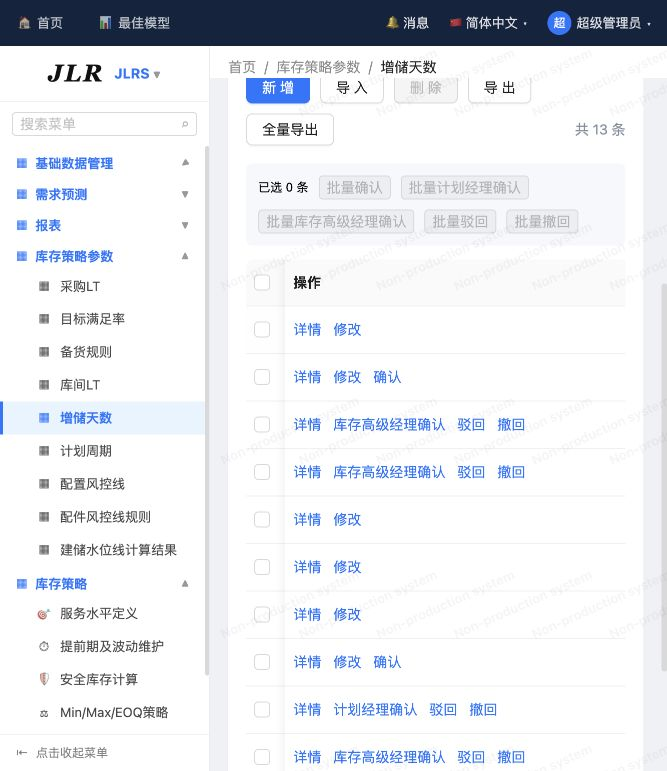
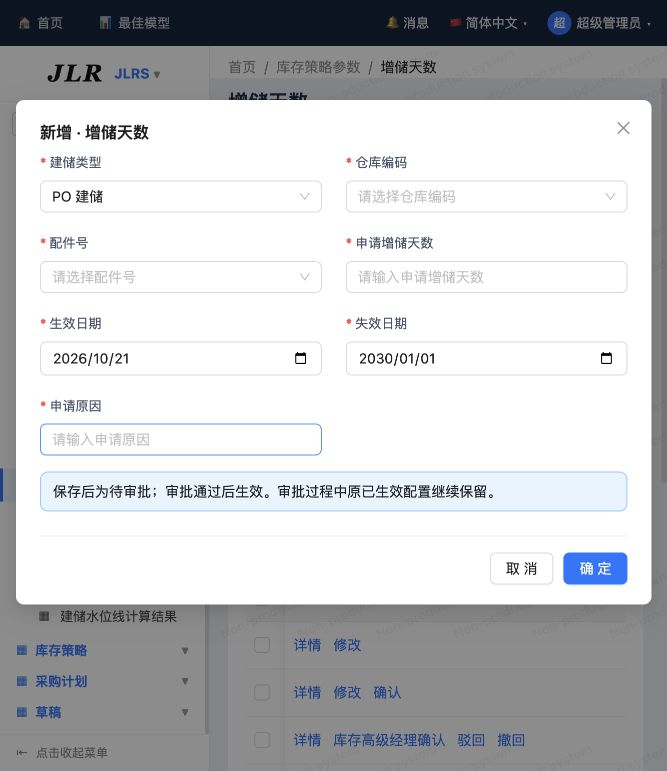
feat: add PO and STO storage types to inventory parameters

diff --git a/前端设计稿/inventory-strategy.js b/前端设计稿/inventory-strategy.js
@@ -22,8 +22,11 @@ const schemas={
  cycle:{title:'计划周期',cols:[sel('type','类型',['配件计划周期','ABC分类计划周期']),...partCols,abc,n('cycle','计划周期'),...meta],edit:['type','part','abc','cycle'],filters:['type','part','partName','abc'],unique:['type','part','abc'],note:'配件类型必填配件；ABC类型必填ABC分类；计划周期为正整数。'},
  risk:{title:'配置风控线',cols:[...partCols,...whCols,...risk,...meta],edit:['part','wh',...risk.map(x=>x.key)],filters:['part','wh','minCoef','maxCoef','minDays','maxDays'],unique:['part','wh'],note:'四项风控参数作为一组配置；配件级优先，其次分类规则，再取全局参数。'},
  riskRule:{title:'配件风控线规则',cols:[...whCols,abc,sel('xyz','XYZ分类',['X','Y','Z']),sel('volume','体积分类',['大','中','小']),sel('amount','金额分类',['高','中','低']),...risk,...meta],edit:['wh','abc','xyz','volume','amount',...risk.map(x=>x.key)],filters:['wh','abc','xyz','volume','amount','minCoef','maxCoef','minDays','maxDays'],unique:['wh','abc','xyz','volume','amount'],note:'按仓库及分类组合维护；分类阈值与跨分类冲突处理规则待确认。'},
- result:{title:'建储水位线计算结果',cols:resultLabels.map((label,i)=>resultKeys[i]==='buildType'?sel('buildType',label,['采购建储','STO调拨建储']):resultKeys[i]==='part'?part:resultKeys[i]==='wh'?{...wh,label}:resultKeys[i]==='shipWh'?sel('shipWh',label,wh.options):resultKeys[i]==='abc'?abc:F(resultKeys[i],label)),edit:['adjustTarget','adjustReorder','adjustReason'],filters:['buildType','part','partName','wh','shipWh','abc','planner'],unique:['buildType','part','wh','shipWh'],note:'固定演示结果，不代表已实现生产计算引擎。先展示水位线及风控、兜底、调整结果，再展示周月预测及其他参数；不适用字段留空。'}
+ result:{title:'建储水位线计算结果',cols:resultLabels.map((label,i)=>resultKeys[i]==='buildType'?sel('buildType',label,['PO 建储','STO 建储']):resultKeys[i]==='part'?part:resultKeys[i]==='wh'?{...wh,label}:resultKeys[i]==='shipWh'?sel('shipWh',label,wh.options):resultKeys[i]==='abc'?abc:F(resultKeys[i],label)),edit:['adjustTarget','adjustReorder','adjustReason'],filters:['buildType','part','partName','wh','shipWh','abc','planner'],unique:['buildType','part','wh','shipWh'],note:'固定演示结果，不代表已实现生产计算引擎。先展示水位线及风控、兜底、调整结果，再展示周月预测及其他参数；不适用字段留空。'}
 };
+const buildTypes=['PO 建储','STO 建储'];
+const buildTypePages=['service','increase','risk','riskRule'];
+for(const k of buildTypePages){schemas[k].cols.unshift(sel('buildType','建储类型',buildTypes));schemas[k].edit.unshift('buildType');schemas[k].filters.unshift('buildType');schemas[k].unique.unshift('buildType');}
 const names=['机油滤清器','空气滤清器','前制动片','燃油泵','冷却液管','点火线圈','车门锁','转向机'];
 const whNames={SH01:'上海中心仓',BJ01:'北京区域仓',GZ01:'广州区域仓',CD01:'成都区域仓'};
 const today=()=>new Date().toISOString().slice(0,10);
@@ -37,7 +40,7 @@ function effective(r,date=today()){
  return{days:Number(snap.days),status:r.status==='审批通过'?'生效中':'原配置生效中'};
 }
 function seed(key){return Array.from({length:key==='increase'?12:16},(_,i)=>{
- let r={id:key+'-'+i,part:part.options[i%8],wh:wh.options[Math.floor(i/8)%4],abc:['A','B','C','D','E'][i%5],modifier:'演示用户',updated:stamp()};
+ let r={...(buildTypePages.includes(key)?{buildType:buildTypes[Math.floor(i/6)%2]}:{}),id:key+'-'+i,part:part.options[i%8],wh:wh.options[Math.floor(i/8)%4],abc:['A','B','C','D','E'][i%5],modifier:'演示用户',updated:stamp()};
  if(key==='purchase')Object.assign(r,{part:part.options[i%8],planner:['张计划','李计划'][i%2],method:['手工维护','50分位数'][i%2],lt:25+i,samples:32+i*3,q25:18+i,q50:24+i,q75:30+i,q95:40+i,calcDate:today()});
  if(key==='service'){r.type=types[i%2];r.rate=95+i%5;r.service='';r.partAbc='A';if(i%2)r.part='';else r.abc='';r.wh=wh.options[Math.floor(i/4)%4];}
  if(key==='stocking')Object.assign(r,{ruleNo:'STK'+String(i+1).padStart(4,'0'),allowed:i%3?'允许':'禁止',start:today(),enabled:i%4?'启用':'停用',remark:'演示备货配置'});
@@ -45,11 +48,12 @@ function seed(key){return Array.from({length:key==='increase'?12:16},(_,i)=>{
  if(key==='increase'){r.part=part.options[i%8];r.wh=wh.options[Math.floor(i/8)];Object.assign(r,{days:3+i,start:'2026-01-01',end:'2030-01-01',status:statusList[i%6],reason:'旺季备货需求',history:[]});if(i>=6&&i%6!==3)r.approved={days:2,start:'2026-01-01',end:'2030-01-01'};if(i%6===4)r.history.push({at:stamp(),action:'驳回',reason:'请补充增储依据'});}
  if(key==='cycle'){r.type=i%2?'ABC分类计划周期':'配件计划周期';r.cycle=7+i%4*7;if(i%2)r.part='';else r.abc='';}
  if(key==='risk'||key==='riskRule')Object.assign(r,{minCoef:0.8,minDays:-2,maxCoef:1.2,maxDays:3,xyz:['X','Y','Z'][i%3],volume:['大','中','小'][i%3],amount:['高','中','低'][Math.floor(i/3)%3]});
- if(key==='result')Object.assign(r,{buildType:i%2?'STO调拨建储':'采购建储',shipWh:i%2?wh.options[(Math.floor(i/8)+1)%4]:'',target:120+i*8,min:80+i*4,max:180+i*8,riskTarget:120+i*8,riskReorder:i%2?'':85+i*4,floor:i%2?'':100,floorTarget:i%2?'':Math.max(120+i*8,100),floorReorder:i%2?'':85+i*4,adjustTarget:'',adjustReorder:'',adjustReason:'',weekly:i%2?35+i:'',weeklyDate:i%2?today():'',weeklySales:i%2?31+i:'',monthly:i%2?'':145+i,monthlyDate:i%2?'':today(),monthlySales:i%2?'':137+i,volatility:4.2,purchaseDays:i%2?'':30,transferDays:i%2?3:'',cycle:7,days:5,start:'2026-01-01',end:'2030-01-01',rate:98,service:'',planner:'张计划'});
+ if(key==='result')Object.assign(r,{buildType:i%2?'STO 建储':'PO 建储',shipWh:i%2?wh.options[(Math.floor(i/8)+1)%4]:'',target:120+i*8,min:80+i*4,max:180+i*8,riskTarget:120+i*8,riskReorder:i%2?'':85+i*4,floor:i%2?'':100,floorTarget:i%2?'':Math.max(120+i*8,100),floorReorder:i%2?'':85+i*4,adjustTarget:'',adjustReorder:'',adjustReason:'',weekly:i%2?35+i:'',weeklyDate:i%2?today():'',weeklySales:i%2?31+i:'',monthly:i%2?'':145+i,monthlyDate:i%2?'':today(),monthlySales:i%2?'':137+i,volatility:4.2,purchaseDays:i%2?'':30,transferDays:i%2?3:'',cycle:7,days:5,start:'2026-01-01',end:'2030-01-01',rate:98,service:'',planner:'张计划'});
  return decorate(r);
  }).filter((r,i,arr)=>arr.findIndex(x=>uniqueKey(key,x)===uniqueKey(key,r))===i);}
+function migrate(key,rows){const out=rows.map(row=>{const r=JSON.parse(JSON.stringify(row));if(key==='result'){if(r.buildType==='采购建储')r.buildType='PO 建储';if(r.buildType==='STO调拨建储')r.buildType='STO 建储';}else if(buildTypePages.includes(key)&&!r.buildType)r.buildType='PO 建储';return r;});if(buildTypePages.includes(key)&&!out.some(r=>r.buildType==='STO 建储'))for(const r of seed(key).filter(r=>r.buildType==='STO 建储')){if(!out.some(x=>uniqueKey(key,x)===uniqueKey(key,r)))out.push({...r,id:r.id+'-sto'});}return out;}
 function uniqueKey(key,r){return schemas[key].unique.map(k=>r[k]??'').join('|');}
-function isDisabled(key,f,r){return (['service','cycle'].includes(key)&&((f==='abc'&&String(r.type).startsWith('配件'))||(f==='part'&&String(r.type).startsWith('ABC'))))||(key==='purchase'&&f==='lt'&&r.method!=='手工维护')||(key==='result'&&f==='adjustReorder'&&r.buildType!=='采购建储');}
+function isDisabled(key,f,r){return (['service','cycle'].includes(key)&&((f==='abc'&&String(r.type).startsWith('配件'))||(f==='part'&&String(r.type).startsWith('ABC'))))||(key==='purchase'&&f==='lt'&&r.method!=='手工维护')||(key==='result'&&f==='adjustReorder'&&r.buildType!=='PO 建储');}
 function required(key,f,r){return !['remark','adjustReorder'].includes(f)&&!isDisabled(key,f,r);}
 function normalize(key,row){const r=JSON.parse(JSON.stringify(row));for(const k in r)if(typeof r[k]==='string')r[k]=r[k].trim();if(['service','cycle'].includes(key)){if(String(r.type).startsWith('配件'))r.abc='';else r.part='';}if(key==='purchase'&&r.method!=='手工维护')r.lt='';return decorate(r);}
 function validate(key,r,rows=[],id){
@@ -80,13 +84,13 @@ function transition(rows,action,role,reason){
 }
 function csvEncode(rows,cols){return '\ufeff'+[cols.map(c=>c.label),...rows.map(r=>cols.map(c=>r[c.key]??''))].map(row=>row.map(v=>'"'+String(v).replace(/"/g,'""')+'"').join(',')).join('\r\n');}
 function csvParse(text){const rows=[];let row=[],cell='',quoted=false;for(let i=0;i<text.length;i++){let c=text[i];if(c==='"'){if(quoted&&text[i+1]==='"'){cell+='"';i++;}else quoted=!quoted;}else if(c===','&&!quoted){row.push(cell);cell='';}else if((c==='\n'||c==='\r')&&!quoted){if(c==='\r'&&text[i+1]==='\n')i++;row.push(cell);if(row.some(v=>v!==''))rows.push(row);row=[];cell='';}else cell+=c;}if(quoted)throw Error('CSV引号未闭合');row.push(cell);if(row.some(v=>v!==''))rows.push(row);if(rows[0])rows[0][0]=rows[0][0].replace(/^\ufeff/,'');return rows;}
-const api={schemas,seed,validate,normalize,transition,effective,uniqueKey,csvParse,csvEncode,isDisabled,required,actionRole};
+const api={schemas,seed,validate,normalize,transition,effective,uniqueKey,csvParse,csvEncode,isDisabled,required,actionRole,migrate};
 if(typeof module!=='undefined'&&module.exports)module.exports=api;
 if(!root.Vue)return;
 const {ref,reactive,computed,watch}=root.Vue;
 root.JlrInventoryStrategy={props:{pageKey:String},setup(props){
  const key=computed(()=>props.pageKey.replace('strategy-',''));const schema=computed(()=>schemas[key.value]);
- const store=reactive({});for(const k of Object.keys(schemas)){try{const saved=JSON.parse(localStorage.getItem('jlr-strategy-v1-'+k));store[k]=Array.isArray(saved)?saved:seed(k);}catch{store[k]=seed(k);}}
+ const store=reactive({});for(const k of Object.keys(schemas)){try{const saved=JSON.parse(localStorage.getItem('jlr-strategy-v1-'+k));store[k]=Array.isArray(saved)?migrate(k,saved):seed(k);}catch{store[k]=seed(k);}}
  const persist=()=>{for(const k in store)localStorage.setItem('jlr-strategy-v1-'+k,JSON.stringify(store[k]));};
  const query=reactive({}),applied=ref({}),expanded=ref(false),selected=ref([]),hidden=ref([]);
  const modal=ref(false),mode=ref('new'),form=reactive({}),errors=ref([]),batch=ref(false),parts=ref([]),warehouses=ref([]),preview=ref([]),previewed=ref(false);
@@ -104,7 +108,7 @@ root.JlrInventoryStrategy={props:{pageKey:String},setup(props){
  function undoDelete(){const k=deleted.value[0]?._page;if(!k)return;if(deleted.value.some(r=>store[k].some(x=>uniqueKey(k,r)===uniqueKey(k,x)))){notify('配置维度已被重新创建，无法恢复','error');return;}store[k].unshift(...deleted.value.map(({_page,...r})=>r));deleted.value=[];persist();notify('已恢复上次删除记录');}
  function reset(){for(const k in query)delete query[k];search();}
  function open(r,detail=false){for(const k in form)delete form[k];mode.value=detail?'detail':r?'edit':'new';batch.value=false;preview.value=[];previewed.value=false;parts.value=[];warehouses.value=[];errors.value=[];
- Object.assign(form,r?JSON.parse(JSON.stringify(r)):{type:schema.value.cols.find(x=>x.key==='type')?.options?.[0],method:'手工维护',allowed:'允许',enabled:'启用',start:today(),end:'2030-01-01',status:'待审批',remark:''});modal.value=true;}
+ Object.assign(form,r?JSON.parse(JSON.stringify(r)):{buildType:'PO 建储',type:schema.value.cols.find(x=>x.key==='type')?.options?.[0],method:'手工维护',allowed:'允许',enabled:'启用',start:today(),end:'2030-01-01',status:'待审批',remark:''});modal.value=true;}
  function typeChange(){if(['service','cycle'].includes(key.value)){form.part='';form.abc='';}if(key.value==='purchase'&&form.method!=='手工维护')form.lt='';}
  function canEdit(r){return key.value!=='increase'||['待审批','审批通过','已驳回','已撤回'].includes(r.status);}
  function makePreview(){preview.value=parts.value.flatMap(p=>warehouses.value.map(w=>normalize('stocking',{...form,part:p,wh:w})));previewed.value=true;if(!preview.value.length)errors.value=['请至少选择一个配件和一个仓库'];else errors.value=[];}

diff --git a/docs/库存策略参数-字段盘点与交互设计.md b/docs/库存策略参数-字段盘点与交互设计.md
@@ -34,25 +34,26 @@
 
 路由：`#strategy-service`。
 
-查询条件（依次）：类型、配件号、配件名称、仓库编码、ABC分类。前3项默认展示，其他展开；数字/日期提供起止范围。
+查询条件（依次）：建储类型、类型、配件号、配件名称、仓库编码、ABC分类。前3项默认展示，其他展开；数字/日期提供起止范围。
 
 配件类型必填配件；ABC类型必填ABC分类；仓库、目标满足率始终必填。服务水平换算表尚待确认。
 
 |顺序|字段|必填|是否允许维护|说明|
 |---|---|---|---|---|
-|1|类型|是|是（条件限制见说明）|本地新增/修改维护|
-|2|配件号|按类型|是（条件限制见说明）|配件类型必填；ABC类型禁用并清空|
-|3|配件名称|—|否|系统带出或只读|
-|4|配件ABC分类|—|否|系统带出或只读|
-|5|仓库编码|是|是（条件限制见说明）|本地新增/修改维护|
-|6|仓库名称|—|否|系统带出或只读|
-|7|ABC分类|按类型|是（条件限制见说明）|ABC类型必填；配件类型禁用并清空|
-|8|目标满足率(%)|是|是（条件限制见说明）|本地新增/修改维护|
-|9|服务水平|—|否|系统带出或只读|
-|10|修改人名称|—|否|系统带出或只读|
-|11|更新时间|—|否|系统带出或只读|
+|1|建储类型|是|是|PO 建储、STO 建储；新增默认PO 建储|
+|2|类型|是|是（条件限制见说明）|本地新增/修改维护|
+|3|配件号|按类型|是（条件限制见说明）|配件类型必填；ABC类型禁用并清空|
+|4|配件名称|—|否|系统带出或只读|
+|5|配件ABC分类|—|否|系统带出或只读|
+|6|仓库编码|是|是（条件限制见说明）|本地新增/修改维护|
+|7|仓库名称|—|否|系统带出或只读|
+|8|ABC分类|按类型|是（条件限制见说明）|ABC类型必填；配件类型禁用并清空|
+|9|目标满足率(%)|是|是（条件限制见说明）|本地新增/修改维护|
+|10|服务水平|—|否|系统带出或只读|
+|11|修改人名称|—|否|系统带出或只读|
+|12|更新时间|—|否|系统带出或只读|
 
-唯一维度（演示约束）：类型＋仓库编码＋配件号＋ABC分类。
+唯一维度（演示约束）：建储类型＋类型＋仓库编码＋配件号＋ABC分类。
 
 ## 备货规则
 
@@ -102,27 +103,28 @@
 
 路由：`#strategy-increase`。
 
-查询条件（依次）：配件号、配件名称、仓库编码、审批状态、生效日期、失效日期、生效状态。前3项默认展示，其他展开；数字/日期提供起止范围。
+查询条件（依次）：建储类型、配件号、配件名称、仓库编码、审批状态、生效日期、失效日期、生效状态。前3项默认展示，其他展开；数字/日期提供起止范围。
 
 待审批 → 操作人确认 → 待计划经理确认 → 计划经理确认 → 待库存高级经理确认 → 库存高级经理确认 → 审批通过。修改审批期间保留原有效配置。
 
 |顺序|字段|必填|是否允许维护|说明|
 |---|---|---|---|---|
-|1|仓库编码|是|是（条件限制见说明）|本地新增/修改维护|
-|2|仓库名称|—|否|系统带出或只读|
-|3|配件号|是|是（条件限制见说明）|本地新增/修改维护|
-|4|配件名称|—|否|系统带出或只读|
-|5|申请增储天数|是|是（条件限制见说明）|本地新增/修改维护|
-|6|生效日期|是|是（条件限制见说明）|本地新增/修改维护|
-|7|失效日期|是|是（条件限制见说明）|本地新增/修改维护|
-|8|审批状态|—|否|系统带出或只读|
-|9|当前生效天数|—|否|系统带出或只读|
-|10|生效状态|—|否|系统带出或只读|
-|11|申请原因|是|是（条件限制见说明）|本地新增/修改维护|
-|12|修改人名称|—|否|系统带出或只读|
-|13|更新时间|—|否|系统带出或只读|
+|1|建储类型|是|是|PO 建储、STO 建储；新增默认PO 建储|
+|2|仓库编码|是|是（条件限制见说明）|本地新增/修改维护|
+|3|仓库名称|—|否|系统带出或只读|
+|4|配件号|是|是（条件限制见说明）|本地新增/修改维护|
+|5|配件名称|—|否|系统带出或只读|
+|6|申请增储天数|是|是（条件限制见说明）|本地新增/修改维护|
+|7|生效日期|是|是（条件限制见说明）|本地新增/修改维护|
+|8|失效日期|是|是（条件限制见说明）|本地新增/修改维护|
+|9|审批状态|—|否|系统带出或只读|
+|10|当前生效天数|—|否|系统带出或只读|
+|11|生效状态|—|否|系统带出或只读|
+|12|申请原因|是|是（条件限制见说明）|本地新增/修改维护|
+|13|修改人名称|—|否|系统带出或只读|
+|14|更新时间|—|否|系统带出或只读|
 
-唯一维度（演示约束）：配件号＋仓库编码。
+唯一维度（演示约束）：建储类型＋配件号＋仓库编码。
 
 ## 计划周期
 
@@ -148,49 +150,51 @@
 
 路由：`#strategy-risk`。
 
-查询条件（依次）：配件号、仓库编码、最低风控线系数、最高风控线系数、最低风控线调整天数、最高风控线调整天数。前3项默认展示，其他展开；数字/日期提供起止范围。
+查询条件（依次）：建储类型、配件号、仓库编码、最低风控线系数、最高风控线系数、最低风控线调整天数、最高风控线调整天数。前3项默认展示，其他展开；数字/日期提供起止范围。
 
 四项风控参数作为一组配置；配件级优先，其次分类规则，再取全局参数。
 
 |顺序|字段|必填|是否允许维护|说明|
 |---|---|---|---|---|
-|1|配件号|是|是（条件限制见说明）|本地新增/修改维护|
-|2|配件名称|—|否|系统带出或只读|
-|3|仓库编码|是|是（条件限制见说明）|本地新增/修改维护|
-|4|仓库名称|—|否|系统带出或只读|
-|5|最低风控线系数|是|是（条件限制见说明）|本地新增/修改维护|
-|6|最低风控线调整天数|是|是（条件限制见说明）|本地新增/修改维护|
-|7|最高风控线系数|是|是（条件限制见说明）|本地新增/修改维护|
-|8|最高风控线调整天数|是|是（条件限制见说明）|本地新增/修改维护|
-|9|修改人名称|—|否|系统带出或只读|
-|10|更新时间|—|否|系统带出或只读|
+|1|建储类型|是|是|PO 建储、STO 建储；新增默认PO 建储|
+|2|配件号|是|是（条件限制见说明）|本地新增/修改维护|
+|3|配件名称|—|否|系统带出或只读|
+|4|仓库编码|是|是（条件限制见说明）|本地新增/修改维护|
+|5|仓库名称|—|否|系统带出或只读|
+|6|最低风控线系数|是|是（条件限制见说明）|本地新增/修改维护|
+|7|最低风控线调整天数|是|是（条件限制见说明）|本地新增/修改维护|
+|8|最高风控线系数|是|是（条件限制见说明）|本地新增/修改维护|
+|9|最高风控线调整天数|是|是（条件限制见说明）|本地新增/修改维护|
+|10|修改人名称|—|否|系统带出或只读|
+|11|更新时间|—|否|系统带出或只读|
 
-唯一维度（演示约束）：配件号＋仓库编码。
+唯一维度（演示约束）：建储类型＋配件号＋仓库编码。
 
 ## 配件风控线规则
 
 路由：`#strategy-riskRule`。
 
-查询条件（依次）：仓库编码、ABC分类、XYZ分类、体积分类、金额分类、最低风控线系数、最高风控线系数、最低风控线调整天数、最高风控线调整天数。前3项默认展示，其他展开；数字/日期提供起止范围。
+查询条件（依次）：建储类型、仓库编码、ABC分类、XYZ分类、体积分类、金额分类、最低风控线系数、最高风控线系数、最低风控线调整天数、最高风控线调整天数。前3项默认展示，其他展开；数字/日期提供起止范围。
 
 按仓库及分类组合维护；分类阈值与跨分类冲突处理规则待确认。
 
 |顺序|字段|必填|是否允许维护|说明|
 |---|---|---|---|---|
-|1|仓库编码|是|是（条件限制见说明）|本地新增/修改维护|
-|2|仓库名称|—|否|系统带出或只读|
-|3|ABC分类|是|是（条件限制见说明）|本地新增/修改维护|
-|4|XYZ分类|是|是（条件限制见说明）|本地新增/修改维护|
-|5|体积分类|是|是（条件限制见说明）|本地新增/修改维护|
-|6|金额分类|是|是（条件限制见说明）|本地新增/修改维护|
-|7|最低风控线系数|是|是（条件限制见说明）|本地新增/修改维护|
-|8|最低风控线调整天数|是|是（条件限制见说明）|本地新增/修改维护|
-|9|最高风控线系数|是|是（条件限制见说明）|本地新增/修改维护|
-|10|最高风控线调整天数|是|是（条件限制见说明）|本地新增/修改维护|
-|11|修改人名称|—|否|系统带出或只读|
-|12|更新时间|—|否|系统带出或只读|
+|1|建储类型|是|是|PO 建储、STO 建储；新增默认PO 建储|
+|2|仓库编码|是|是（条件限制见说明）|本地新增/修改维护|
+|3|仓库名称|—|否|系统带出或只读|
+|4|ABC分类|是|是（条件限制见说明）|本地新增/修改维护|
+|5|XYZ分类|是|是（条件限制见说明）|本地新增/修改维护|
+|6|体积分类|是|是（条件限制见说明）|本地新增/修改维护|
+|7|金额分类|是|是（条件限制见说明）|本地新增/修改维护|
+|8|最低风控线系数|是|是（条件限制见说明）|本地新增/修改维护|
+|9|最低风控线调整天数|是|是（条件限制见说明）|本地新增/修改维护|
+|10|最高风控线系数|是|是（条件限制见说明）|本地新增/修改维护|
+|11|最高风控线调整天数|是|是（条件限制见说明）|本地新增/修改维护|
+|12|修改人名称|—|否|系统带出或只读|
+|13|更新时间|—|否|系统带出或只读|
 
-唯一维度（演示约束）：仓库编码＋ABC分类＋XYZ分类＋体积分类＋金额分类。
+唯一维度（演示约束）：建储类型＋仓库编码＋ABC分类＋XYZ分类＋体积分类＋金额分类。
 
 ## 建储水位线计算结果
 
@@ -240,3 +244,5 @@
 |36|更新时间|—|否|系统带出或只读|
 
 唯一维度（演示约束）：建储类型＋配件号＋建储仓库编码＋发货仓库编码。
+
+建储类型补充：上述四个配置页与建储结果均提供PO 建储/STO 建储的查询、列表、详情及导出；配置页新增/修改与导入必填。相同配件仓库可按建储类型分别维护；结果的建储类型由结果数据提供，只读。已有本地演示配置未带类型的按PO 建储兼容，并补充STO示例，实际生产数据迁移规则待确认。

diff --git a/docs/库存策略参数-覆盖清单.md b/docs/库存策略参数-覆盖清单.md
@@ -21,7 +21,7 @@
 | 计划周期 | 已实现 | 已实现 | 同上 | 配件/ABC类型必填与禁用清空联动 |
 | 配置风控线 | 已实现，4项风控参数范围查询 | 已实现 | 同上 | 配件＋仓库四项参数成组维护 |
 | 配件风控线规则 | 已实现，分类及风控参数查询 | 已实现 | 同上 | 仓库＋ABC＋XYZ＋体积分类＋金额分类组合 |
-| 建储水位线计算结果 | 已实现 | 详情、人工调整 | 查询导出、全量导出；不提供结果导入 | 36字段按最新顺序，采购/STO适用性留空 |
+| 建储水位线计算结果 | 已实现 | 详情、人工调整 | 查询导出、全量导出；不提供结果导入 | 36字段按最新顺序，PO/STO适用性留空 |
 
 8个配置页提供勾选删除和撤销本次删除。增储只允许删除待审批、已驳回、已撤回数据。此删除约束是演示保护，正式删除权限待确认。原系统仅部分页面已核实存在删除按钮，额外页面删除是本地补充。
 
@@ -57,7 +57,7 @@
 - 打开 `http://127.0.0.1:5174/前端设计稿/JLR_主数据前端设计稿.html#strategy-increase`。
 - 增储页面不提供演示角色选择，直接使用对应状态下的确认、驳回和撤回按钮；不同状态混选、越级整批不执行。
 - 数据只在当前浏览器本地保存；刷新后保留。清除该站点的本地数据后重新生成默认演示集。
-- 逻辑验证：`node tests/inventory-strategy.test.cjs`；覆盖16组关键行为，全部通过。
+- 逻辑验证：`node tests/inventory-strategy.test.cjs`；覆盖18组关键行为，全部通过。
 - 浏览器已验证：9菜单加载及默认数据；目标满足率类型切换后必填/禁用联动；增储新增保存为待审批、三阶段批量确认至审批通过且生效；计划周期CSV解析/确认导入；两配件×两仓库备货组合预览并保存4条；采购LT名称查询/重置；配置勾选删除及撤销恢复；结果页导出和36字段详情；原配件主数据表格回归；刷新保留本地数据。完整字段顺序及必填/编辑说明见《库存策略参数-字段盘点与交互设计》。
 
 ## 界面调整（2026-10-21）
@@ -65,3 +65,7 @@
 - 去掉增储天数的演示角色选择，操作直接按审批状态执行。
 - 库存策略参数9页与库存策略4页均不展示列设置入口，字段按规定顺序展示。
 - 两组页面的全量导出按钮均与同页导出按钮样式一致。
+
+## 建储类型补充（2026-10-21）
+
+目标满足率、增储天数、配置风控线、配件风控线规则增加建储类型字段；结果页统一类型名称为“PO 建储”“STO 建储”。列表首列展示，支持查询与导出。四个配置页新增/修改/导入必填，新增默认PO 建储；唯一维度包含建储类型，允许两类分别配置。结果页类型只读。旧本地演示配置缺失类型时兼容为PO 建储并补充STO演示记录；这不是生产历史数据归类规则。
